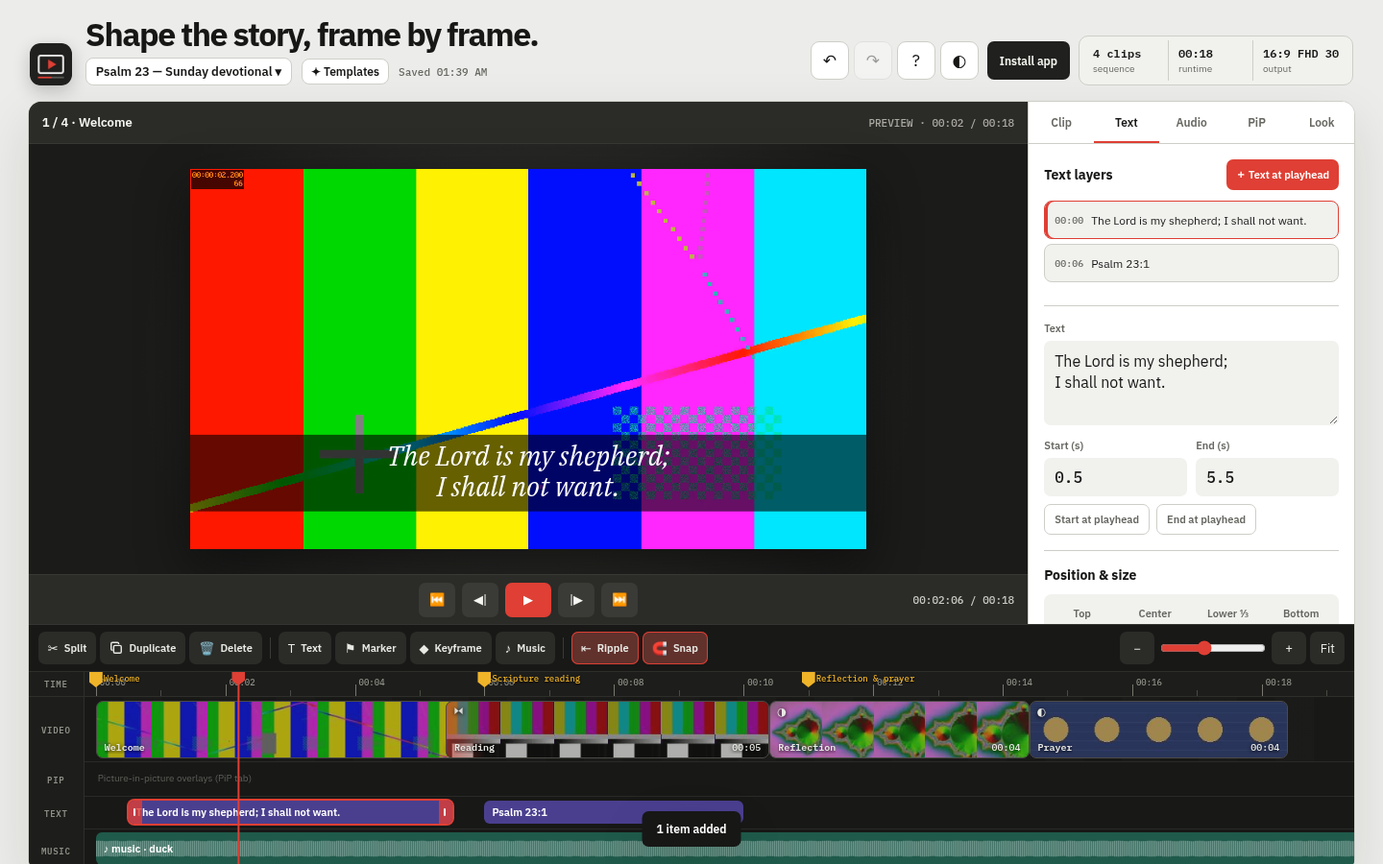
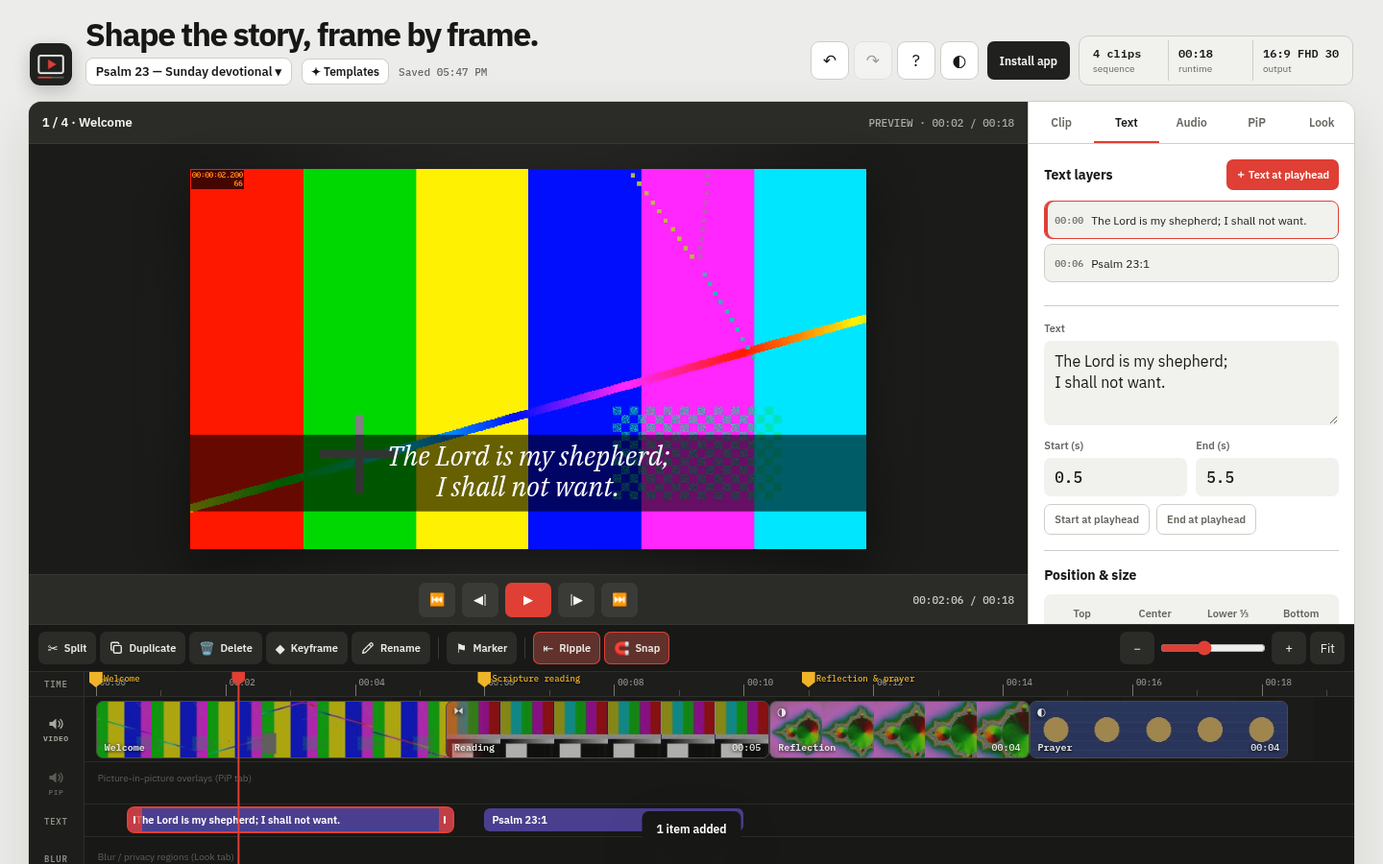
Rename button in the timeline toolbar (any item type, F2, undoable); remove the Name field from the Clip tab

Changed region(s): [[0.0312, 0.9022, 1.0, 1.0], [0.2188, 0.7156, 0.5312, 0.7778], [0.0312, 0.84, 0.0625, 0.8711]]

diff --git a/js/app.js b/js/app.js
@@ -8,7 +8,7 @@ import {
   newProject, migrate, layout, clipAt, clipLen, audioLen, newClipFromMedia, newText, newAudio, removeClip, duplicateClip,
   moveClip, rippleShift, History, PRESETS, FONTS, outputDims, defaultColor, defaultTransform, MIN_CLIP,
   newOverlay, overlayLen, animated, hasKeyframes, setKeyframe, kfTimes, removeKeyframesAt, setEaseAt, ANIM_PROPS, normalizeClip,
-  splitItem, audioSpan, rebaseKeyframes, overlaysAt, overlaySourceTime, thumbFormat, newBlur, animPropsOf, cleanBlur, cleanClipBlur,
+  splitItem, audioSpan, rebaseKeyframes, overlaysAt, overlaySourceTime, thumbFormat, newBlur, animPropsOf, cleanBlur, cleanClipBlur, NAME_MAX, textLabel, blurLabel,
 } from './model.js';
 import { Compositor, drawLogo, ensureFonts, fontCss, wrapLines, TEXT_ANIMS_IN, TEXT_ANIMS_OUT } from './render.js';
 import { TEMPLATES, paintBackground } from './templates.js';
@@ -331,6 +331,7 @@ function fillOutputs() {
 // What to tell the user when a toolbar action can't apply to the current selection.
 const TOOL_HINT = {
   duplicate: { none: 'Nothing selected. Tap a clip, text, overlay, music track or marker on the timeline first, then tap Duplicate.' },
+  rename: { none: 'Nothing selected. Tap a clip, text, overlay, music track, blur region or marker on the timeline first, then tap Rename.' },
   delete: { none: 'Nothing selected. Tap a clip, text, overlay, music track or marker on the timeline first, then tap Delete.' },
   addKeyframe: {
     none: 'Nothing selected. Tap a clip, text or overlay on the timeline first, then tap Keyframe.',
@@ -415,6 +416,7 @@ function fillInspector() {
   const setState = (sel, ok, tipOk, tipNo) => qsa(sel).forEach(b => { b.disabled = false; b.setAttribute('aria-disabled', ok ? 'false' : 'true'); b.classList.toggle('is-off', !ok); b.title = ok ? tipOk : tipNo; });
   setState('.tl-toolbar [data-action=duplicate]', !!st, 'Duplicate selected (Ctrl+D)', TOOL_HINT.duplicate.none);
   setState('.tl-toolbar [data-action=delete]', !!st, 'Delete selected (Del)', TOOL_HINT.delete.none);
+  setState('.tl-toolbar [data-action=rename]', !!st, 'Rename the selected item (F2)', TOOL_HINT.rename.none);
   setState('.tl-toolbar [data-action=addKeyframe]', kfOk, 'Keyframe the selected clip, text or overlay at the playhead (Shift+K)', TOOL_HINT.addKeyframe[st || 'none'] || TOOL_HINT.addKeyframe.none);
 }
 // Side-panel lists: rebuilt only when what they show changed (they're refreshed on every slider input event).
@@ -434,12 +436,12 @@ function renderList(id, rows, build) {
 function renderLists(light) {
   const p = app.project, sel = app.selection || {}, total = layout(p).total;
   const isSel = (type, id) => sel.type === type && sel.id === id;
-  const texts = [...p.texts].sort((a, b) => a.start - b.start).map(t => ({ t, key: [t.id, fmt(t.start), t.text, isSel('text', t.id)] }));
-  renderList('textList', texts, ({ t }) => { const txt = (t.text || '(empty)').replace(/\n/g, ' '); return listItem(isSel('text', t.id), `Text at ${fmt(t.start)}: ${txt}`, () => app.select({ type: 'text', id: t.id }, { seekInto: true }),
+  const texts = [...p.texts].sort((a, b) => a.start - b.start).map(t => ({ t, key: [t.id, fmt(t.start), t.text, t.name, isSel('text', t.id)] }));
+  renderList('textList', texts, ({ t }) => { const txt = textLabel(t); return listItem(isSel('text', t.id), `Text at ${fmt(t.start)}: ${txt}`, () => app.select({ type: 'text', id: t.id }, { seekInto: true }),
     el('span', { class: 't', text: fmt(t.start) }), el('span', { class: 'grow', text: txt })); });
-  const blrs = [...(p.blurs || [])].sort((a, b) => a.start - b.start).map(b => ({ b, key: [b.id, b.mode, b.invert, b.shape, fmt(b.start), fmt(b.end), isSel('blur', b.id)] }));
-  renderList('blurList', blrs, ({ b }) => listItem(isSel('blur', b.id), `${b.invert ? 'Focus' : b.mode === 'pixelate' ? 'Pixelate' : 'Blur'} region at ${fmt(b.start)}`, () => app.select({ type: 'blur', id: b.id }, { seekInto: true }),
-    el('span', { class: 'item-ico' }, icon('blur')), el('span', { class: 'grow', text: (b.invert ? 'Focus (blur outside)' : b.mode === 'pixelate' ? 'Pixelate' : 'Blur') + ' · ' + (b.shape === 'ellipse' ? 'ellipse' : 'box') }), el('span', { class: 't', text: fmt(b.start) + ' · ' + fmt(b.end - b.start) })));
+  const blrs = [...(p.blurs || [])].sort((a, b) => a.start - b.start).map(b => ({ b, key: [b.id, b.name, b.mode, b.invert, b.shape, fmt(b.start), fmt(b.end), isSel('blur', b.id)] }));
+  renderList('blurList', blrs, ({ b }) => listItem(isSel('blur', b.id), `${blurLabel(b)} region at ${fmt(b.start)}`, () => app.select({ type: 'blur', id: b.id }, { seekInto: true }),
+    el('span', { class: 'item-ico' }, icon('blur')), el('span', { class: 'grow', text: blurLabel(b) + ' · ' + (b.shape === 'ellipse' ? 'ellipse' : 'box') }), el('span', { class: 't', text: fmt(b.start) + ' · ' + fmt(b.end - b.start) })));
   const auds = p.audio.map(a => ({ a, span: audioSpan(a, total), key: [a.id, a.name, a.voice, a.loop, fmt(a.start), fmt(audioSpan(a, total)), isSel('audio', a.id)] }));
   renderList('audioList', auds, ({ a, span }) => listItem(isSel('audio', a.id), `${a.voice ? 'Voice' : 'Music'} track ${a.name}${a.loop ? ', looped' : ''}, ${fmt(a.start)}`, () => app.select({ type: 'audio', id: a.id }),
     el('span', { text: a.voice ? '🎙' : '♪' }), el('span', { class: 'grow', text: a.name + (a.loop ? ' (loop)' : '') }), el('span', { class: 't', text: fmt(a.start) + ' · ' + fmt(span) })));
@@ -560,6 +562,21 @@ const actions = {
   removeLogo() { app.project.logo = null; app.commit('Remove logo'); },
   deleteOverlay() { const o = selected('overlay'); if (!o) return; app.project.overlays = app.project.overlays.filter(x => x !== o); app.selection = null; app.commit('Delete overlay'); },
   ovlStartHere() { const o = selected('overlay'); if (!o) return; o.start = Math.max(0, player.t); app.commit('Move overlay'); },
+  rename() {
+    const s = app.selection, item = s && selected(s.type);
+    if (!s || !item) return toast(TOOL_HINT.rename.none, 4000);
+    const kind = { clip: 'clip', text: 'text layer', overlay: 'overlay', audio: item.voice ? 'voice track' : 'music track', blur: 'blur region', marker: 'marker' }[s.type];
+    const cur = s.type === 'text' ? (item.name || '') : s.type === 'blur' ? (item.name || '') : (item.name || '');
+    const needs = s.type === 'clip' || s.type === 'overlay' || s.type === 'audio';
+    renameCtx = { type: s.type, id: s.id, needs, auto: s.type === 'text' ? textLabel({ text: item.text }) : s.type === 'blur' ? blurLabel({ mode: item.mode, invert: item.invert }) : '' };
+    $('renameTitle').textContent = 'Rename ' + kind;
+    $('renameLabel').textContent = 'Name';
+    $('renameHint').textContent = needs ? '' : 'Leave empty to use the automatic name' + (renameCtx.auto ? ' (“' + renameCtx.auto.slice(0, 40) + '”).' : '.');
+    $('renameHint').classList.remove('err');
+    const inp = $('renameInput'); inp.value = cur; inp.placeholder = needs ? '' : renameCtx.auto.slice(0, 40);
+    openDialog('renameDialog');
+    setTimeout(() => { inp.focus(); inp.select(); }, 30);
+  },
   addBlur() {
     const p = app.project, total = layout(p).total;
     if (!p.clips.length) return toast('Add a video clip first, then add a blur region over it.');
@@ -590,6 +607,25 @@ const actions = {
   kfClear() { const k = kfTarget(); if (!k) return; k.item.keyframes = {}; app.commit('Clear keyframes'); toast('Keyframes cleared'); },
 };
 app.actions = actions;
+let renameCtx = null;
+/** Apply a new name to the item chosen in the Rename dialog (returns an error message, or '' when done). */
+function applyRename(name) {
+  const c = renameCtx; if (!c) return '';
+  const item = selected(c.type); if (!item || app.selection.id !== c.id) return 'That item is no longer selected.';
+  name = String(name).replace(/\s+/g, ' ').trim().slice(0, NAME_MAX);
+  if (c.needs && !name) return 'Type a name.';
+  if (item.name === name) return '';
+  item.name = name;
+  app.commit('Rename');
+  return '';
+}
+$('renameForm').addEventListener('submit', (e) => {
+  e.preventDefault();
+  const err = applyRename($('renameInput').value);
+  if (err) { $('renameHint').textContent = err; $('renameHint').classList.add('err'); $('renameInput').focus(); return; }
+  closeDialog('renameDialog'); toast('Renamed', 1400);
+});
+$('renameDialog').addEventListener('close', () => { renameCtx = null; });
 
 // ---------------------------------------------------------------- keyframe panels
 function renderKfPanels() {
@@ -997,6 +1033,7 @@ document.addEventListener('keydown', (e) => {
     case 'Delete': case 'Backspace': handled(); actions.delete(); break;
     case 't': case 'T': if (!e.repeat) actions.addText(); break;
     case 'm': case 'M': if (!e.repeat) actions.addMarker(); break;
+    case 'F2': handled(); actions.rename(); break;
     // R never starts recording instantly: it arms a 3-second countdown (R or Esc cancels); R again stops a recording
     case 'r': case 'R': handled(); if (!e.repeat) voice.keyR(); break;
     case '+': case '=': timeline.zoomBy(1.4); break;

diff --git a/js/model.js b/js/model.js
@@ -47,16 +47,21 @@ export function migrate(p) {
   out.color = Object.assign(defaultColor(), p.color || {});
   out.thumb = Object.assign(newProject().thumb, p.thumb || {});
   out.clips = (p.clips || []).map(c => normalizeClip(c));
-  out.texts = (p.texts || []).map(t => { const b = newText(0); const r = Object.assign(b, t); r.anim = Object.assign(newText(0).anim, t.anim || {}); r.keyframes = t.keyframes || {}; return r; });
+  out.texts = (p.texts || []).map(t => { const b = newText(0); const r = Object.assign(b, t); r.name = typeof t.name === 'string' ? t.name.slice(0, NAME_MAX) : ''; r.anim = Object.assign(newText(0).anim, t.anim || {}); r.keyframes = t.keyframes || {}; return r; });
   out.audio = (p.audio || []).map(a => Object.assign(newAudio({ id: a.mediaId, duration: a.srcDuration || 1, name: a.name }, 0), a));
   out.overlays = (p.overlays || []).map(o => normalizeOverlay(o));
   out.blurs = (Array.isArray(p.blurs) ? p.blurs : []).filter(b => b && typeof b === 'object').slice(0, 200).map(b => normalizeBlur(b));
-  out.markers = (Array.isArray(p.markers) ? p.markers : []).filter(m => m && typeof m === 'object').map(m => ({ ...m, time: num(m.time, 0, 1e6, 0) }));
+  out.markers = (Array.isArray(p.markers) ? p.markers : []).filter(m => m && typeof m === 'object').map(m => ({ ...m, name: typeof m.name === 'string' ? m.name.slice(0, NAME_MAX) : '', time: num(m.time, 0, 1e6, 0) }));
   if ((p.schema || 0) < 5 && out.thumb.time === 0) out.thumb.time = null; // before v5, 0 meant "not chosen yet"
   sanitizeProject(out);
   out.schema = SCHEMA;
   return out;
 }
+export const NAME_MAX = 80;
+/** Display name of a text layer (custom name, else its first line) and of a blur region (custom name, else its kind). */
+export const textLabel = (t) => (t.name && t.name.trim()) || (t.text || '(empty)').replace(/\n/g, ' ');
+export const blurLabel = (b) => (b.name && b.name.trim()) || (b.invert ? 'Focus' : b.mode === 'pixelate' ? 'Pixelate' : 'Blur');
+const cleanName = (o, d) => { o.name = typeof o.name === 'string' && o.name.trim() ? o.name.slice(0, NAME_MAX) : d; };
 const num = (v, lo, hi, d) => (v !== null && v !== '' && Number.isFinite(+v) ? clamp(+v, lo, hi) : d);
 const oneOf = (v, list, d) => (list.includes(v) ? v : d);
 /**
@@ -76,7 +81,7 @@ export function sanitizeProject(p) {
   T.type = oneOf(T.type, ['jpg', 'png'], 'jpg'); T.position = oneOf(T.position, ['left', 'center', 'right', 'top', 'bottom'], 'left');
   T.pip = T.pip !== false; T.logo = T.logo !== false;
   for (const c of p.clips) {
-    c.muted = c.muted === true; c.speed = num(c.speed, 0.25, 4, 1); c.volume = num(c.volume, 0, 2, 1); c.opacity = num(c.opacity, 0, 1, 1);
+    cleanName(c, 'Clip'); c.muted = c.muted === true; c.speed = num(c.speed, 0.25, 4, 1); c.volume = num(c.volume, 0, 2, 1); c.opacity = num(c.opacity, 0, 1, 1);
     c.srcDuration = num(c.srcDuration, 0, 1e6, 1); c.in = num(c.in, 0, 1e6, 0); c.out = num(c.out, c.in + 0.01, 1e6, c.in + 1);
     c.fadeIn = num(c.fadeIn, 0, 60, 0); c.fadeOut = num(c.fadeOut, 0, 60, 0);
     c.transition.duration = num(c.transition.duration, 0, 10, 0.6);
@@ -84,7 +89,7 @@ export function sanitizeProject(p) {
     cleanClipBlur(c.blur);
   }
   for (const o of p.overlays) {
-    o.muted = o.muted !== false; o.speed = num(o.speed, 0.25, 4, 1); o.volume = num(o.volume, 0, 2, 1); o.opacity = num(o.opacity, 0, 1, 1);
+    cleanName(o, 'Overlay'); o.muted = o.muted !== false; o.speed = num(o.speed, 0.25, 4, 1); o.volume = num(o.volume, 0, 2, 1); o.opacity = num(o.opacity, 0, 1, 1);
     o.w = num(o.w, 0.01, 4, 0.36); o.scale = num(o.scale, 0.05, 20, 1); o.start = num(o.start, 0, 1e6, 0);
     o.in = num(o.in, 0, 1e6, 0); o.out = num(o.out, o.in + 0.01, 1e6, o.in + 1);
   }
@@ -95,7 +100,7 @@ export function sanitizeProject(p) {
   }
   for (const b of p.blurs || []) cleanBlur(b);
   for (const a of p.audio) {
-    a.muted = a.muted === true; a.volume = num(a.volume, 0, 2, 0.6); a.duckLevel = num(a.duckLevel, 0, 1, 0.3); a.start = num(a.start, 0, 1e6, 0);
+    cleanName(a, 'Music'); a.muted = a.muted === true; a.volume = num(a.volume, 0, 2, 0.6); a.duckLevel = num(a.duckLevel, 0, 1, 0.3); a.start = num(a.start, 0, 1e6, 0);
     a.in = num(a.in, 0, 1e6, 0); a.out = num(a.out, a.in + 0.01, 1e6, a.in + 1); a.loopLen = num(a.loopLen, 0, 1e6, 0); a.phase = num(a.phase, 0, 1e6, 0);
     a.fadeIn = num(a.fadeIn, 0, 60, 0); a.fadeOut = num(a.fadeOut, 0, 60, 0);
   }
@@ -110,7 +115,7 @@ export const BLUR_SHAPES = ['rect', 'ellipse'], BLUR_MODES = ['blur', 'pixelate'
 export const defaultClipBlur = () => ({ enabled: false, mode: 'blur', strength: 0.6, keep: false, shape: 'ellipse', x: 0.5, y: 0.5, w: 0.5, h: 0.62, radius: 0.3, feather: 0.35 });
 export function newBlur(start, dur = 4) {
   return {
-    id: uid('blr'), shape: 'rect', mode: 'blur', x: 0.5, y: 0.5, w: 0.3, h: 0.3, radius: 0.15, strength: 0.7, feather: 0.1, invert: false,
+    id: uid('blr'), name: '', shape: 'rect', mode: 'blur', x: 0.5, y: 0.5, w: 0.3, h: 0.3, radius: 0.15, strength: 0.7, feather: 0.1, invert: false,
     start, end: start + dur, fadeIn: 0.2, fadeOut: 0.2, keyframes: {},
   };
 }
@@ -121,6 +126,7 @@ export function normalizeBlur(b) {
 }
 const BLUR_KF = ['x', 'y', 'w', 'h'];
 export function cleanBlur(b) {
+  b.name = typeof b.name === 'string' ? b.name.slice(0, NAME_MAX) : '';
   b.shape = oneOf(b.shape, BLUR_SHAPES, 'rect'); b.mode = oneOf(b.mode, BLUR_MODES, 'blur');
   b.x = num(b.x, -0.5, 1.5, 0.5); b.y = num(b.y, -0.5, 1.5, 0.5); b.w = num(b.w, 0.01, 3, 0.3); b.h = num(b.h, 0.01, 3, 0.3);
   b.radius = num(b.radius, 0, 1, 0.15); b.strength = num(b.strength, 0, 1, 0.7); b.feather = num(b.feather, 0, 1, 0.1);
@@ -180,7 +186,7 @@ export function newClipFromMedia(media, settings) {
 
 export function newText(start, dur = 4, text = 'Your text here') {
   return {
-    id: uid('txt'), text, start, end: start + dur, x: 0.5, y: 0.82, size: 0.075,
+    id: uid('txt'), name: '', text, start, end: start + dur, x: 0.5, y: 0.82, size: 0.075,
     color: '#ffffff', bg: '#000000', bgOpacity: 0.62, style: 'clean', font: 'sans', align: 'center',
     fadeIn: 0.3, fadeOut: 0.3, maxWidth: 0.86,
     scale: 1, rotation: 0, opacity: 1, anim: { in: 'none', out: 'none', inDur: 0.6, outDur: 0.4 }, keyframes: {},

diff --git a/index.html b/index.html
@@ -4,7 +4,7 @@
   <meta charset="utf-8" />
   <meta name="viewport" content="width=device-width, initial-scale=1, viewport-fit=cover" />
   <meta name="color-scheme" content="light dark" />
-  <meta name="ve-build" content="v4b57286be8" />
+  <meta name="ve-build" content="vdec0332c30" />
   <meta name="theme-color" content="#20201e" media="(prefers-color-scheme: light)" />
   <meta name="theme-color" content="#090909" media="(prefers-color-scheme: dark)" />
   <!-- Defense in depth: only this site's own scripts, styles, fonts, workers and wasm; media from blob:/data: URLs. -->
@@ -138,9 +138,8 @@
           </div>
           <section class="section">
             <div class="section-head"><h2 id="clipTitle">Clip</h2><span class="hint mono" id="clipLenLabel">00:00</span></div>
-            <label><span class="label">Name</span><input class="field" data-bind="clip.name" data-commit="change" maxlength="80" /></label>
             <div id="trimBlock">
-              <div class="field-row" style="margin-top:10px">
+              <div class="field-row">
                 <label><span class="label">In point (s)</span><input class="field mono" id="clipIn" type="number" min="0" step="0.1" /></label>
                 <label><span class="label">Out point (s)</span><input class="field mono" id="clipOut" type="number" min="0" step="0.1" /></label>
               </div>
@@ -483,6 +482,7 @@
         <button class="tool" data-action="duplicate" type="button" title="Duplicate selected (Ctrl+D)"><svg class="ico" viewBox="0 0 16 16" aria-hidden="true"><rect x="5" y="5" width="9" height="9" rx="1.5" fill="none" stroke="currentColor" stroke-width="1.6"/><path d="M11 3.5V3a1.5 1.5 0 0 0-1.5-1.5h-6A1.5 1.5 0 0 0 2 3v6a1.5 1.5 0 0 0 1.5 1.5H4" fill="none" stroke="currentColor" stroke-width="1.6"/></svg><span>Duplicate</span></button>
         <button class="tool" data-action="delete" type="button" title="Delete selected (Del)">🗑<span>Delete</span></button>
         <button class="tool" data-action="addKeyframe" type="button" title="Keyframe the selected clip, text or overlay at the playhead (Shift+K)">◆<span>Keyframe</span></button>
+        <button class="tool" data-action="rename" type="button" title="Rename the selected item (F2)"><svg class="ico" viewBox="0 0 16 16" aria-hidden="true"><path d="M2 14l.7-3.3L11 2.4a1.4 1.4 0 0 1 2 0l.6.6a1.4 1.4 0 0 1 0 2L5.3 13.3z" fill="none" stroke="currentColor" stroke-width="1.5" stroke-linejoin="round"/><path d="M9.6 3.8l2.6 2.6" stroke="currentColor" stroke-width="1.5"/></svg><span>Rename</span></button>
         <i class="sep"></i>
         <button class="tool" data-action="addMarker" type="button" title="Add marker (M)">⚑<span>Marker</span></button>
         <i class="sep"></i>
@@ -540,6 +540,16 @@
   <div class="tpl-grid" id="templateGrid"></div>
 </dialog>
 
+<!-- Rename -->
+<dialog class="sheet small" id="renameDialog" aria-labelledby="renameTitle">
+  <form id="renameForm" method="dialog" autocomplete="off">
+    <div class="sheet-head"><h2 id="renameTitle">Rename</h2><button class="icon-btn" data-close type="button" aria-label="Close">✕</button></div>
+    <label><span class="label" id="renameLabel">Name</span><input class="field" id="renameInput" maxlength="80" aria-describedby="renameHint" enterkeyhint="done" /></label>
+    <p class="hint" id="renameHint" aria-live="polite"></p>
+    <div class="button-row" style="margin-top:14px"><button class="btn primary" id="renameOk" type="submit">Rename</button><button class="btn secondary" id="renameCancel" type="button" data-close>Cancel</button></div>
+  </form>
+</dialog>
+
 <!-- Help -->
 <dialog class="sheet" id="helpDialog" aria-labelledby="helpTitle">
   <div class="sheet-head"><h2 id="helpTitle">Keyboard shortcuts</h2><button class="icon-btn" data-close type="button" aria-label="Close">✕</button></div>
@@ -554,6 +564,7 @@
     <div><kbd>Ctrl/⌘</kbd>+<kbd>D</kbd><span>Duplicate selected</span></div>
     <div><kbd>T</kbd><span>Add text at playhead</span></div>
     <div><kbd>M</kbd><span>Add marker at playhead</span></div>
+    <div><kbd>F2</kbd><span>Rename the selected item</span></div>
     <div><kbd>Shift</kbd>+<kbd>K</kbd><span>Keyframe selected item at playhead</span></div>
     <div><kbd>R</kbd><span>Voiceover: starts after a 3-second countdown (R or Esc cancels); R again stops</span></div>
     <div><kbd>+</kbd> <kbd>−</kbd> / <kbd>0</kbd><span>Zoom timeline in / out / fit</span></div>

diff --git a/js/timeline.js b/js/timeline.js
@@ -1,5 +1,5 @@
 // Interactive multi-track timeline (video / text / audio + markers). Pointer events: mouse, pen and touch.
-import { layout, clipLen, audioLen, audioSpan, loopSeams, moveClip, rippleShift, MIN_CLIP, overlayLen, kfTimes, rebaseKeyframes, hasKeyframes } from './model.js';
+import { textLabel, blurLabel, layout, clipLen, audioLen, audioSpan, loopSeams, moveClip, rippleShift, MIN_CLIP, overlayLen, kfTimes, rebaseKeyframes, hasKeyframes } from './model.js';
 import { clamp, fmt, el, icon, toast } from './util.js';
 
 function muteBadge(title, extra = '') {
@@ -229,9 +229,9 @@ export class Timeline {
       n._id = t.id; n.dataset.id = t.id;
       n.style.left = this.x(t.start) + 'px'; n.style.width = Math.max(8, (t.end - t.start) * this.pps) + 'px';
       n.style.top = (4 + tl.lane.get(t.id) * 26) + 'px';
-      n.querySelector('span').textContent = (t.text || '(empty)').replace(/\n/g, ' ');
+      n.querySelector('span').textContent = textLabel(t);
       n.classList.toggle('sel', sel.type === 'text' && sel.id === t.id); n.setAttribute('aria-pressed', n.classList.contains('sel') ? 'true' : 'false');
-      n.setAttribute('aria-label', `Text “${(t.text || '').replace(/\n/g, ' ').slice(0, 60)}”, ${fmt(t.start)} to ${fmt(t.end)}`);
+      n.setAttribute('aria-label', `Text “${textLabel(t).slice(0, 60)}”, ${fmt(t.start)} to ${fmt(t.end)}`);
       n.classList.toggle('animated', !!(t.anim && (t.anim.in !== 'none' || t.anim.out !== 'none')));
       this.renderKfs(n, t, t.start, t.end - t.start);
     }
@@ -250,10 +250,10 @@ export class Timeline {
       n._id = b.id; n.dataset.id = b.id;
       n.style.left = this.x(b.start) + 'px'; n.style.width = Math.max(8, (b.end - b.start) * this.pps) + 'px';
       n.style.top = (4 + bl.lane.get(b.id) * 28) + 'px';
-      const lab = n.querySelector('span'), bk = b.mode + '|' + b.invert;
-      if (lab._key !== bk) { lab._key = bk; lab.replaceChildren(icon('blur', 'ico item-ico'), ' ' + (b.invert ? 'Focus' : b.mode === 'pixelate' ? 'Pixelate' : 'Blur')); }
+      const lab = n.querySelector('span'), bk = blurLabel(b);
+      if (lab._key !== bk) { lab._key = bk; lab.replaceChildren(icon('blur', 'ico item-ico'), ' ' + bk); }
       n.classList.toggle('sel', sel.type === 'blur' && sel.id === b.id); n.setAttribute('aria-pressed', n.classList.contains('sel') ? 'true' : 'false');
-      n.setAttribute('aria-label', `${b.invert ? 'Focus (blur outside)' : b.mode === 'pixelate' ? 'Pixelate' : 'Blur'} region, ${fmt(b.start)} to ${fmt(b.end)}`);
+      n.setAttribute('aria-label', `${blurLabel(b)} (${b.invert ? 'blur outside' : b.mode === 'pixelate' ? 'pixelate' : 'blur'} region), ${fmt(b.start)} to ${fmt(b.end)}`);
       n.classList.toggle('animated', hasKeyframes(b));
       this.renderKfs(n, b, b.start, b.end - b.start);
     }

diff --git a/css/app.css b/css/app.css
@@ -449,3 +449,9 @@ kbd{font:600 11px "IBM Plex Mono",monospace;background:var(--surface-2);border:1
 .kf-list .item{min-height:44px}
 .kf-list .item.kf-row button,.kf-list .item.kf-row button:last-child{min-height:40px;min-width:40px}
 .kf-list .kf-row .mini-select{min-height:40px}
+
+dialog.sheet.small{width:min(420px,calc(100vw - 20px))}
+#renameDialog .field{min-height:44px;font-size:16px}
+#renameDialog .btn{min-height:44px;min-width:96px}
+#renameDialog .icon-btn{min-width:44px;min-height:44px}
+#renameDialog .hint.err{color:var(--accent)}

diff --git a/sw.js b/sw.js
@@ -1,5 +1,5 @@
 /* Video Editor service worker: offline app shell (versioned cache) + share target inbox. */
-const VERSION = 'v4b57286be8';
+const VERSION = 'vdec0332c30';
 const CACHE = 'video-editor-shell-' + VERSION;
 const SHELL = [
   './', './index.html', './manifest.webmanifest',

diff --git a/js/build.js b/js/build.js
@@ -1,2 +1,2 @@
 // Written by bump-version.py. Must equal <meta name="ve-build"> in index.html, or the page reloads itself once.
-export const BUILD = 'v4b57286be8';
+export const BUILD = 'vdec0332c30';

diff --git a/README.md b/README.md
@@ -7,7 +7,7 @@ The app is plain static files (HTML, CSS and ES modules). There's no build step.
 ## Features
 - **Timeline.** Whole-sequence playback with a playhead. Scrub on the ruler, zoom (buttons, slider, Ctrl+wheel, `+`/`-`/`0`), and use the separate **Video / PiP / Text / Audio** tracks. Music and voiceover tracks show waveforms (video clips show thumbnails), and keyframes show as ◆ diamonds (click one to jump to it). Clip widths match their durations. Drag clips to reorder them and drag their edges to trim. Snapping and markers are included. Touch works too: tap an item to select it, then drag it or its edges.
 - **Edit.** Split at the playhead (`S` or the Split button) on whichever item is selected: a main clip, text layer, music or voice track, or overlay. With nothing selected it splits the main track. Keyframe and Ken Burns motion carry on smoothly across the cut, and trims, fades and loops are divided correctly. Also duplicate and delete (toolbar, Ctrl+D, Del) for every item type: clip, text, overlay, music, voice and marker. With nothing selected the buttons are dimmed and tapping one says what to select. Ripple (text, music and markers after an edit shift with it). Undo/redo covers every edit (Ctrl/Cmd+Z, Shift+Ctrl/Cmd+Z, Ctrl+Y).
-- **Per clip:** trim, speed from 0.25× to 4× (audio keeps its pitch in the export), volume up to 200%, a **Mute** toggle (silent in preview and export, and it never ducks music), audio fade in/out, transition in (cut, crossfade, fade to black), fit, background override (blurred copy, black, white), zoom/pan crop, free rotation, 90° rotate, flip, opacity, Ken Burns motion, color (brightness, contrast, saturation, warmth, vignette) and presets (Warm, Cool, B&W, Vintage, Vivid, Dramatic, Golden hour).
+- **Per clip:** clips are labelled with their file name on the timeline (there is no name field in the Clip tab; use **Rename** in the timeline toolbar to give a clip a different name), trim, speed from 0.25× to 4× (audio keeps its pitch in the export), volume up to 200%, a **Mute** toggle (silent in preview and export, and it never ducks music), audio fade in/out, transition in (cut, crossfade, fade to black), fit, background override (blurred copy, black, white), zoom/pan crop, free rotation, 90° rotate, flip, opacity, Ken Burns motion, color (brightness, contrast, saturation, warmth, vignette) and presets (Warm, Cool, B&W, Vintage, Vivid, Dramatic, Golden hour).
 - **Global look:** aspect ratio (Original, Widescreen 16:9, Vertical 9:16 for Shorts, Square 1:1, Portrait 4:5), fit, background (black, white, custom color, blurred video; switching to Shorts turns on the blurred fill automatically), a global color grade, an end fade, and a logo/watermark with position, size and opacity.
 - **Image clips** (JPG/PNG/WebP/GIF/HEIC) for title cards, with an adjustable duration. Animated GIFs play in the preview and the export. HEIC/HEIF photos from iPhones are converted to JPEG on import: natively where the browser can decode them (Safari), otherwise with the bundled offline libheif decoder, which is only downloaded when needed.
 - **Text layers:** add them from the Text tab ("＋ Text at playhead") or with the `T` key; as many as you want. Each one has its own text, start/end, position (drag it on the preview or use presets), size, scale, rotation, opacity, width, color, style (Clean, Band, Box, Outline), font (bundled IBM Plex family), alignment, and fade in/out.
@@ -16,6 +16,7 @@ The app is plain static files (HTML, CSS and ES modules). There's no build step.
 - **Picture-in-picture (PiP tab):** a second video or image over the main track. It has its own timing and trim, corner/center/full presets, position, size, scale, rotation, opacity, rounded corners, border, shadow, fades (the overlay's sound fades too), speed from 0.25× to 4× for video overlays (the sound keeps its pitch), and optional sound.
 - **Chroma key (green screen)** for overlays: a key color (with "Pick from preview"), similarity, smoothness and spill suppression. It runs in a WebGL shader in both preview and export.
 - **Voiceover:** record from the microphone straight into a voice track at the playhead. It shows a live level meter and a timer, and after each take you can listen back, then keep it, retake it or discard it. The video can play (muted) while you record. Music ducks under voice tracks automatically. Shortcut: `R` starts a 3-second countdown (press `R` or `Esc` again to cancel), and `R` during a take stops it. The microphone is released as soon as a take ends.
+- **Rename (timeline toolbar, `F2`):** select any item (clip, text layer, PiP overlay, music or voice track, blur region or marker) and tap **Rename** (toolbar order: Split, Duplicate, Delete, Keyframe, Rename, Marker, Ripple, Snap). A small dialog opens with the current name selected: Enter or the Rename button confirms, Esc or Cancel closes it. It is one undo step, names are limited to 80 characters and are saved with the project. Clips, overlays and music/voice tracks need a name; for text layers and blur regions an empty name returns to the automatic one (the text itself, or Blur / Pixelate / Focus). With nothing selected the button is dimmed (`aria-disabled`) and tapping it explains what to select. Names show on the timeline items where there is room.
 - **Blur / Privacy (Look tab):** tap **＋ Blur region** to hide a face, a screen or a license plate, or to blur the background. A region is its own timed item on a **BLUR** track (like a text layer), so you can move it, trim it, snap it, split it, duplicate it, delete it and undo all of that. Shape: box (with a corner-radius slider) or ellipse. Effect: **Blur** or **Pixelate** (mosaic), with a strength slider, a soft-edge (feather) slider, and fade in / out. **Blur everything outside the shape** turns it into a background blur / spotlight. Drag the box on the preview and pull its round handles (44 px touch targets) to resize; arrow keys nudge it and Alt+arrows resize it. To follow a moving face or object, tap **◆ Keyframe at playhead**, move the playhead, then drag the box again: position and size are keyframed with easing. Split, Ripple, Duplicate and the thumbnail maker all include it, and the picture is identical in the preview and in both export engines (WebCodecs MP4 and MediaRecorder). **Limits:** there is no automatic face or object tracking (you set the keyframes yourself), and at most 12 blur effects are drawn on one frame. Clip tab › **Blur background** blurs a whole clip, optionally keeping a sharp draggable subject area.
 - **Mute buttons:** every timeline track header (VIDEO, PIP, MUSIC and, once you have a voiceover, VOICE) has a speaker button (`aria-pressed`, at least 40 px to tap) that mutes or unmutes everything on that track in one tap. It shows a mixed state when only some items are muted. Muted clips, PiP videos and music/voice tracks get a small speaker-off badge on the timeline. It is undoable, saved with the project, and copies made by Split and Duplicate stay muted. Muted audio is left out of both export engines, and a muted clip or voiceover does not trigger ducking.
 - **Music tracks:** trim, offset, volume, fade in/out, **Loop** (repeats the trimmed section until the video ends, or for a length you set; loop seams show on the timeline), and optional auto-ducking under clip audio and voiceovers. A track never ducks under itself. The timeline shows a waveform.
